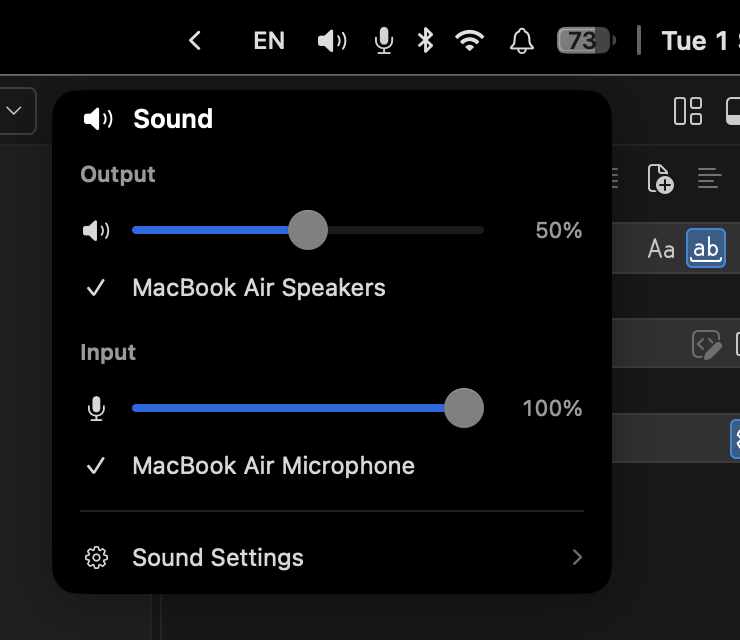
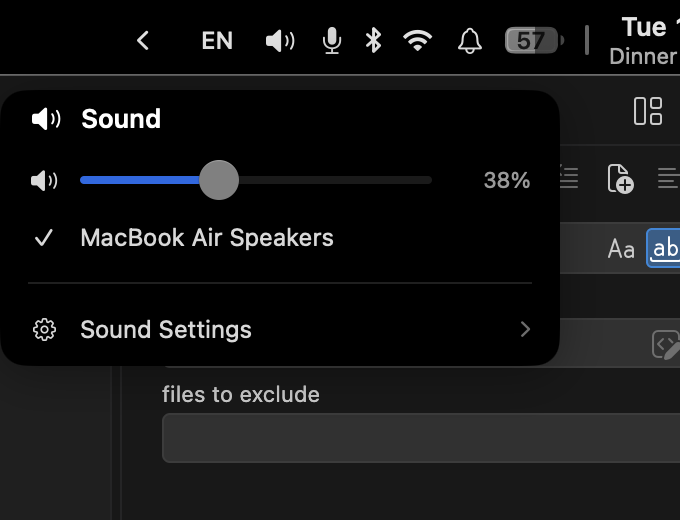
Describe the split sound and microphone popups

diff --git a/README.md b/README.md
@@ -234,13 +234,13 @@ The speaker's arcs say the level the way macOS's own does. `glyph = "waveform"` 
 alternative. Scrolling on the icon changes the volume and right-clicking mutes, so the popup is
 only needed for picking a device.
 
-The popup is two matching blocks, output and input, each with what it is, a level slider, and the
-devices to choose between. Clicking the glyph left of either slider mutes that half. A muted
-device reads `Muted` where its percentage would be, in the popup and in the bar under
-`show-percentage`, while the slider keeps the level it will come back to.
-
 `default.microphone` puts the microphone in the bar as its own icon, with the same scroll and
-right-click over the input level. Both icons open the same popup.
+right-click over the input level.
+
+Each icon opens its own popup: the speaker opens `Sound`, the microphone opens `Microphone`, and
+each holds a level slider and the devices to choose between. Clicking the glyph left of the slider
+mutes that half. A muted device reads `Muted` where its percentage would be, in the popup and in
+the bar under `show-percentage`, while the slider keeps the level it will come back to.
 
 Output devices that carry no mute property, the built-in speakers among them, are muted by
 dropping the level to zero and put back where they were on the way out. An input device that
